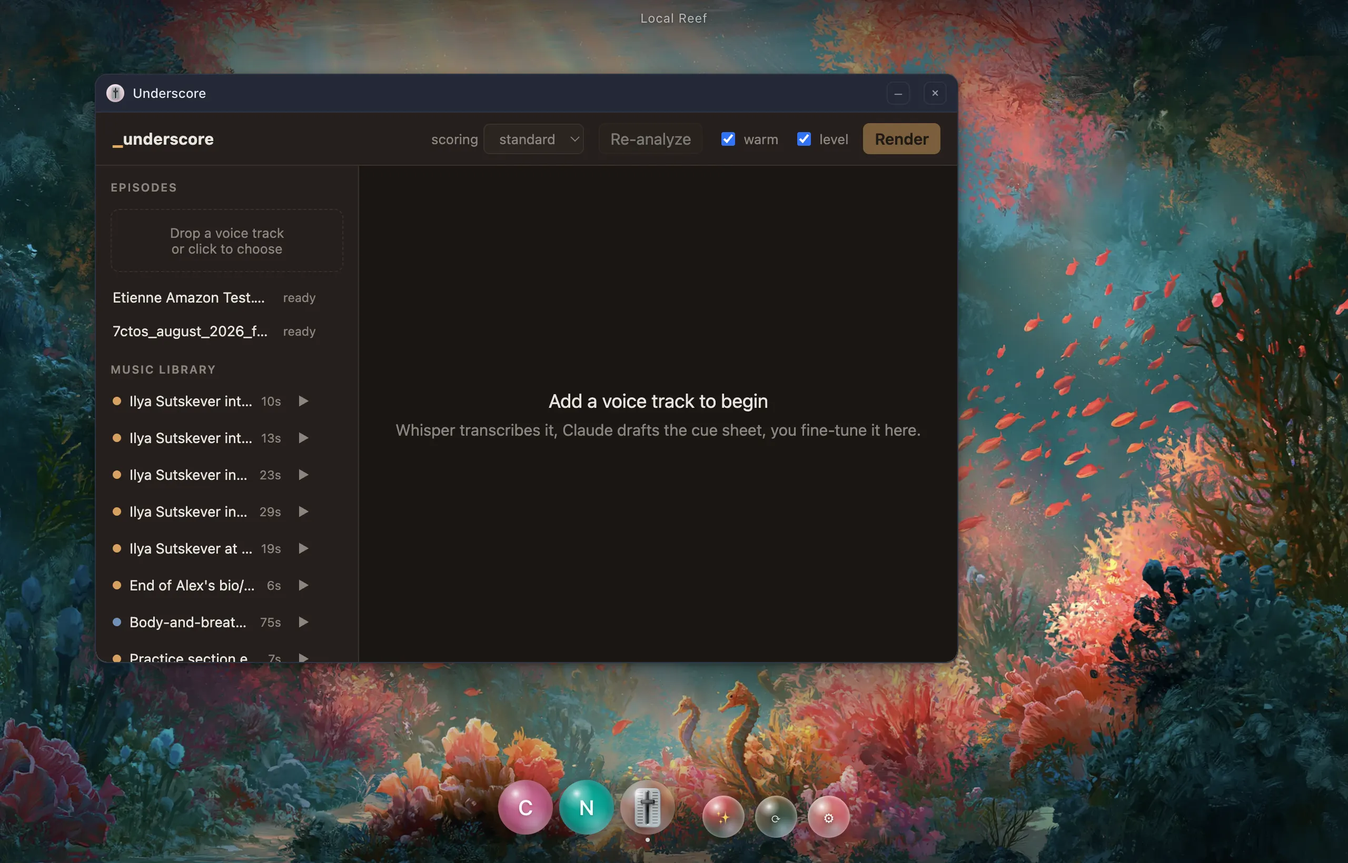
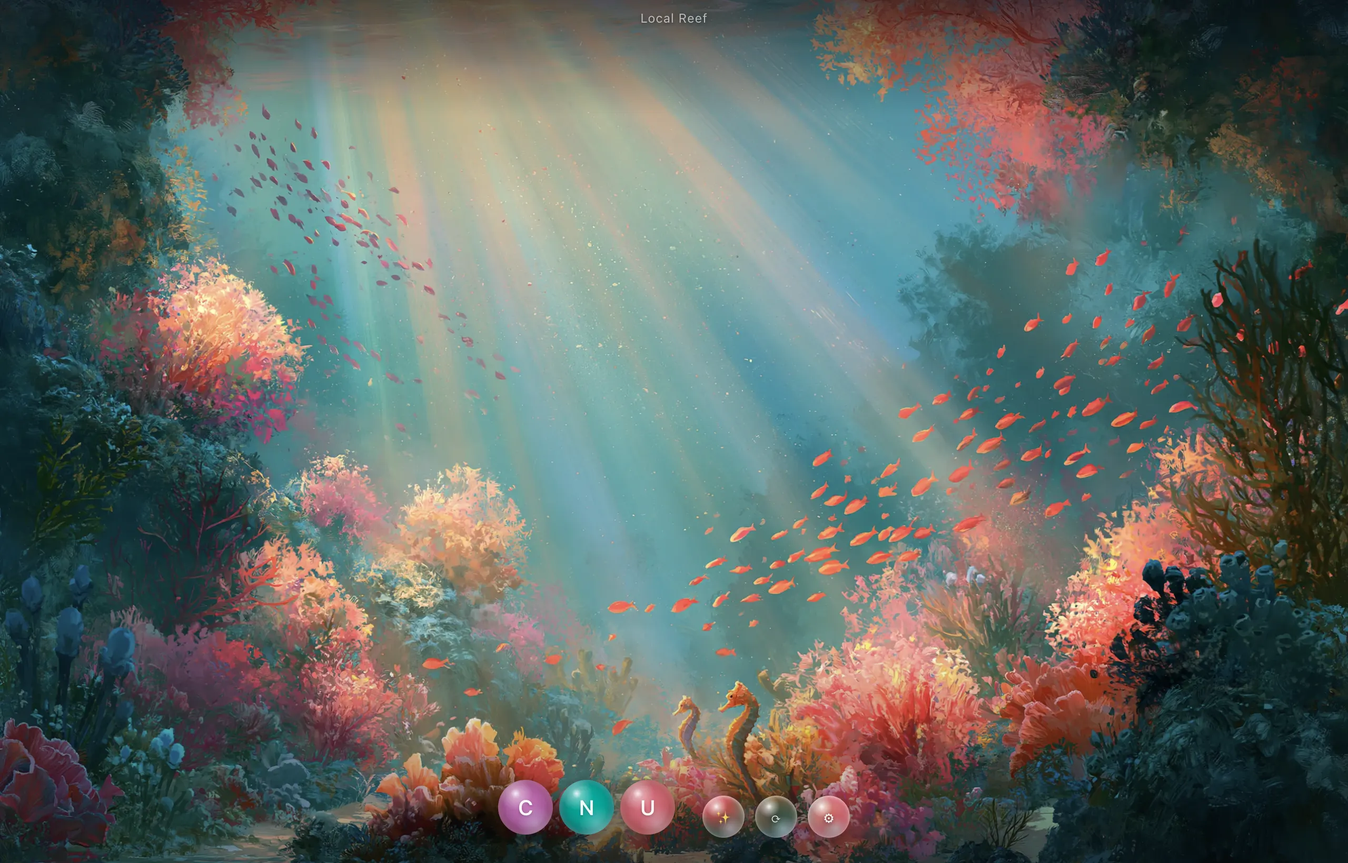
Drop Underscore's emoji; fix hue crowding it exposed
Removing the emoji from the linked project immediately showed a real flaw in
the palette I shipped an hour ago: clock came out at 354 and underscore at
345. Nine degrees apart, both pink, indistinguishable — which defeats the
entire point of colouring icons by id.

Cause was the four narrow reef bands. A 30-degree band cannot separate two
apps that land in it, and with only four bands collisions are likely rather
than unlucky.

Replaced with the inverse: use the whole wheel except the arc that produced
the mustard, 62 to 150 — yellow through olive to grass green. That leaves 272
degrees to spread a golden-ratio stride across, so icons stay off the ugly
colours *and* stay tellable apart. clock 334, notes 186, underscore 12.

The separation test's 30-degree threshold is calibrated against a screenshot,
not picked: the closest surviving pair is 38 degrees and reads as two distinct
siblings, where 9 read as one colour. A per-id hash cannot guarantee
separation without consulting the other installed apps, and having an icon
change colour because you installed something else would be a worse bug than
two similar pinks.

Screenshot refreshed — it had the sticker in it.

diff --git a/src/core/icon.js b/src/core/icon.js
@@ -55,26 +55,27 @@ export function initialsFor(name) {
 }
 
 /**
- * Hue bands sampled off the wallpapers.
+ * The one arc worth avoiding: yellow, through olive, to grass green.
  *
- * Spreading the hash across the whole colour wheel put app icons on mustard
- * and olive, which read as accidental sitting next to a coral reef. These are
- * the colours the reef is actually made of, so a generated icon looks chosen.
+ * Spreading hues across the whole wheel put app icons on mustard, which reads
+ * as accidental next to a coral reef. The first fix was worse — four narrow
+ * bands of reef colour — because a 30-degree band cannot separate two apps,
+ * and `clock` and `underscore` came out nine degrees apart as two identical
+ * pink bubbles. Excluding one arc keeps 272 degrees to spread across, so
+ * icons stay on-palette *and* stay tellable apart, which is the whole point of
+ * colouring them by id.
  */
-const REEF_BANDS = [
-  [12, 46], // coral to orange
-  [330, 360], // pink to magenta
-  [172, 208], // teal to cyan
-  [232, 262], // deep water blue
-]
+const EXCLUDED_FROM = 62
+const EXCLUDED_TO = 150
+const USABLE = 360 - (EXCLUDED_TO - EXCLUDED_FROM)
 
 /**
- * A stable hue per app id, inside the reef palette.
+ * A stable hue per app id.
  *
- * FNV-1a: cheap, and it avalanches well enough that `app1` and `app2` land in
- * different bands rather than adjacent. Only the hue is derived — lightness
- * and chroma are fixed in CSS, so every generated bubble carries identical
- * visual weight and the set reads as one family.
+ * FNV-1a for the hash, then a golden-ratio stride across the usable arc so
+ * consecutive or similar ids land far apart rather than adjacent. Only the hue
+ * is derived — lightness and chroma are fixed in CSS, so every generated
+ * bubble carries identical visual weight and the set reads as one family.
  */
 export function hueFor(id) {
   const text = String(id ?? '')
@@ -86,14 +87,10 @@ export function hueFor(id) {
     hash = Math.imul(hash, 0x01000193) >>> 0
   }
 
-  const [low, high] = REEF_BANDS[hash % REEF_BANDS.length]
+  const position = Math.floor(((hash * 0.6180339887) % 1) * USABLE)
 
-  // Different bits pick the position within the band, so two ids landing in
-  // the same band still separate. The golden ratio spreads them evenly rather
-  // than clustering.
-  const offset = (((hash >>> 8) * 0.6180339887) % 1) * (high - low)
-
-  return Math.round(low + offset) % 360
+  // Positions below the gap map straight through; the rest step over it.
+  return position < EXCLUDED_FROM ? position : position + (EXCLUDED_TO - EXCLUDED_FROM)
 }
 
 /**

diff --git a/test/icon.test.js b/test/icon.test.js
@@ -85,25 +85,35 @@ test('hueFor', async (t) => {
     assert.equal(new Set(hues).size, 4)
   })
 
-  await t.test('stays inside the reef palette', () => {
-    // Hues are drawn from bands sampled off the wallpapers — coral, pink,
-    // teal, deep blue. The full colour wheel put app icons on mustard and
-    // olive, which read as accidental next to a coral reef.
-    const inBand = (h) =>
-      (h >= 12 && h <= 46) || (h >= 330 && h <= 360) || (h >= 172 && h <= 208) || (h >= 232 && h <= 262)
-
-    const ids = ['notes', 'clock', 'chart', 'feed', 'underscore', 'timer', 'budget', 'inbox']
+  await t.test('avoids the yellow-to-grass-green arc', () => {
+    // That arc is where mustard and olive live, and they read as accidental
+    // next to a coral reef. Everything else on the wheel is fair game.
+    const ids = ['notes', 'clock', 'chart', 'feed', 'underscore', 'timer', 'budget', 'inbox', 'a', 'zz']
     for (const id of ids) {
       const hue = hueFor(id)
-      assert.ok(inBand(hue), `${id} -> ${hue} is outside the reef bands`)
+      assert.ok(hue < 62 || hue > 150, `${id} -> ${hue} is in the excluded arc`)
     }
   })
 
-  await t.test('uses more than one band across a realistic set', () => {
-    // Constraining the palette must not collapse it to a single colour.
-    const ids = ['notes', 'clock', 'chart', 'feed', 'underscore', 'timer', 'budget', 'inbox']
-    const bands = new Set(ids.map((id) => Math.floor(hueFor(id) / 40)))
-    assert.ok(bands.size >= 3, `only ${bands.size} distinct bands: ${ids.map(hueFor)}`)
+  await t.test('keeps the bundled apps visibly apart', () => {
+    // The property that actually matters, and the one an earlier version broke:
+    // it confined hues to four narrow bands, and clock and underscore came out
+    // 9 degrees apart — two identical pink bubbles in the dock.
+    //
+    // 30 degrees is calibrated against a screenshot rather than picked: at 38
+    // the closest pair reads as two distinct siblings, at 9 it reads as one
+    // colour. A per-id hash cannot *guarantee* separation without consulting
+    // the other apps, and making an icon change colour because you installed
+    // something else would be a worse bug than two similar pinks.
+    const hues = ['clock', 'notes', 'underscore'].map(hueFor)
+
+    for (let i = 0; i < hues.length; i += 1) {
+      for (let j = i + 1; j < hues.length; j += 1) {
+        const raw = Math.abs(hues[i] - hues[j])
+        const apart = Math.min(raw, 360 - raw)
+        assert.ok(apart >= 30, `hues ${hues[i]} and ${hues[j]} are only ${apart}deg apart`)
+      }
+    }
   })
 })
 
